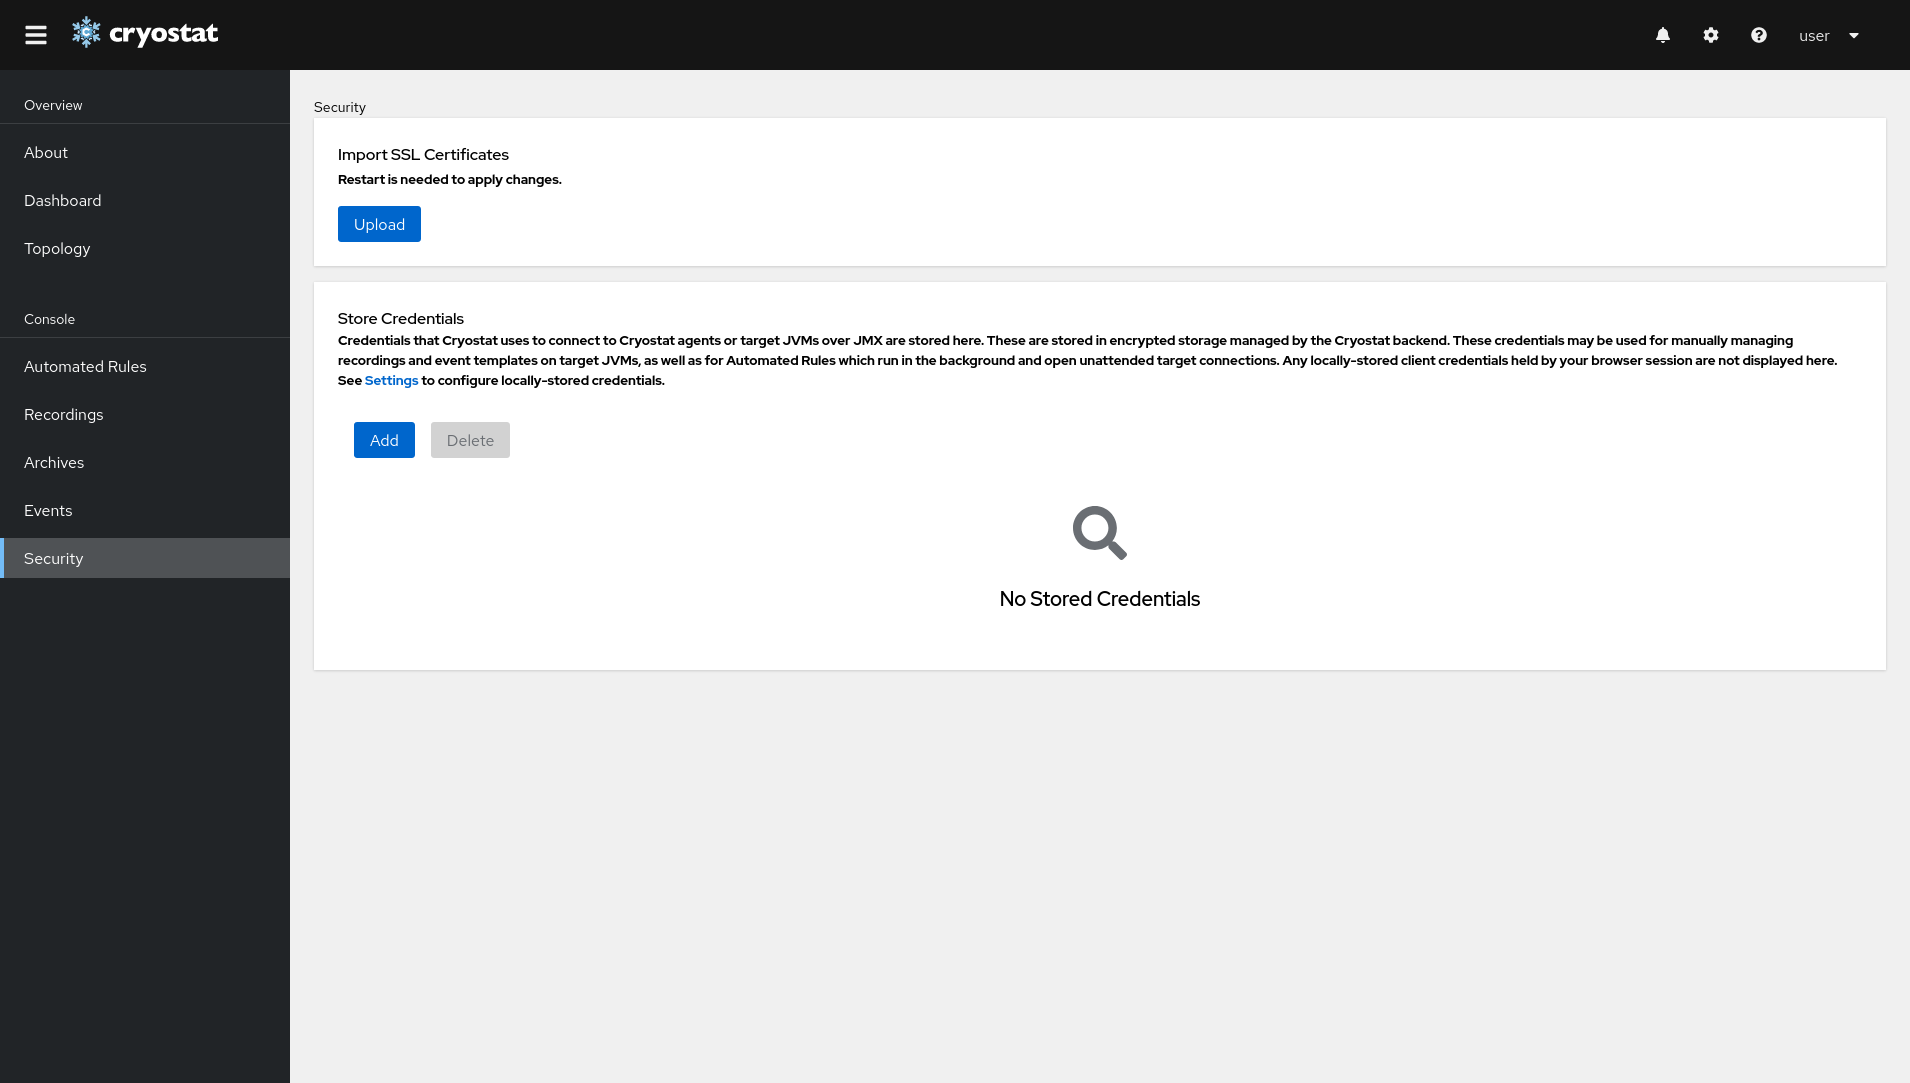
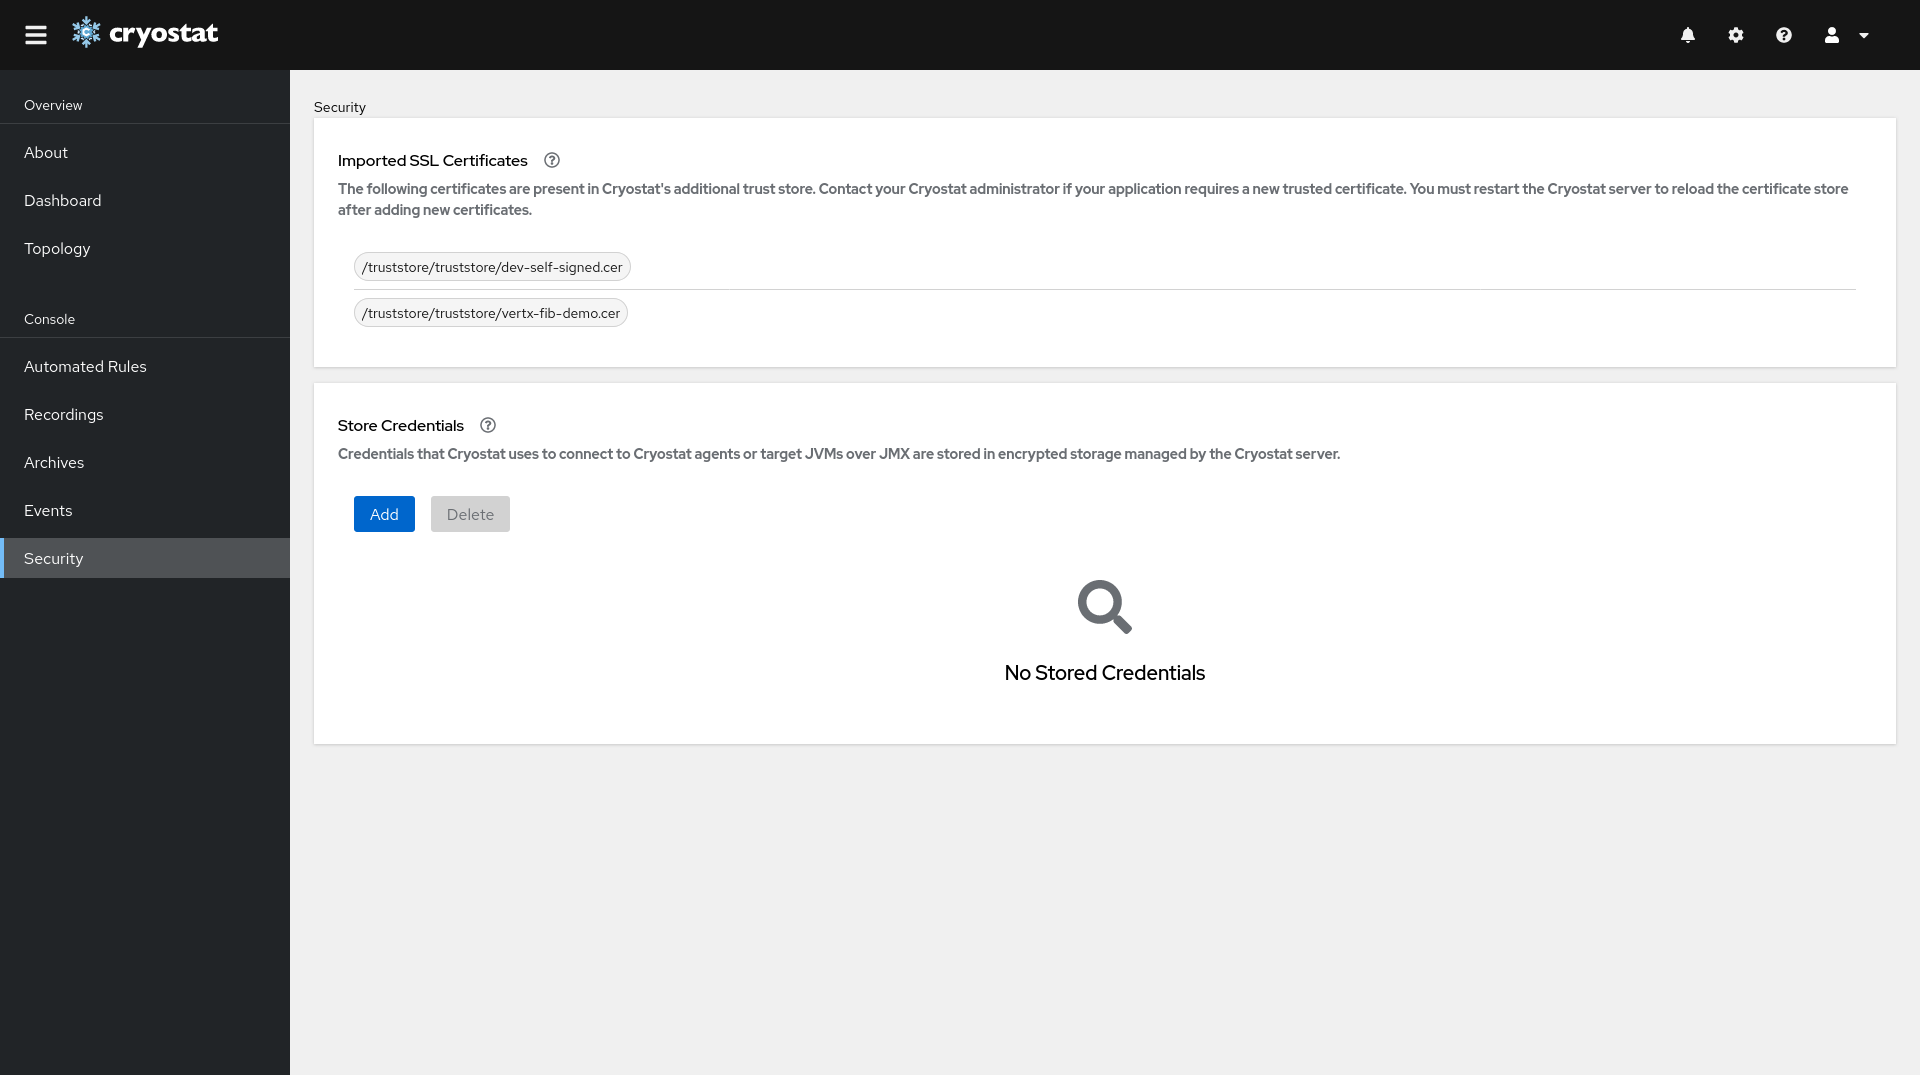
docs(guides): update guide for trusted TLS certs

diff --git a/guides/_subsections/add-a-trusted-certificate.md b/guides/_subsections/add-a-trusted-certificate.md
@@ -1,40 +1,35 @@
 ## [Add a Trusted Certificate](#add-a-trusted-certificate)
-If you have Java Management Extensions **(JMX)** over `SSL` enabled on your containerized **JVMs**, you must configure **Cryostat** to trust the `SSL` certificate presented by the containerized **JVM** when **Cryostat** attempts to open a **JMX** connection. If you do not complete this configuration, **Cryostat** cannot open a **JMX** connection for the purposes of performing **JFR** management tasks.
+If you have Java Management Extensions **(JMX)** over `SSL` enabled on your containerized **JVMs**, you must configure **Cryostat** to trust the `SSL/TLS` certificate presented by the containerized **JVM** when **Cryostat** attempts to open a **JMX** connection. If you do not complete this configuration, **Cryostat** cannot open a **JMX** connection for the purposes of performing **JFR** management tasks.
 
-Here's how to add a trusted `SSL` certificate with the **Cryostat Web** UI.
+<ol>
+    <li>
+        {% include howto_step.html
+          summary="Navigate to the <i>Security</i> Tab"
+          image-name="3.0.0/navigate-to-security-empty.png"
+          text="Click the <i>Security</i> tab. This should initially be in an empty state if you have not yet defined any additional trusted certificates."
+        %}
+    </li>
+</ol>
+
+In order to add a trusted certificate to Cryostat's custom truststore you must first determine the directory that Cryostat loads certificates from.
+This is controlled by the configuration property `ssl.truststore.dir` and defaults to `/truststore`. If you are deploying Cryostat manually in an
+environment like Podman or Docker Compose, you should create a volume containing the certificates and mount it to this location, or bind-mount a host
+directory to this location. If you are using the Cryostat Helm Chart then you should create Secrets containing each trusted certificate and mount
+each within this location. If you are using the Cryostat Operator, you should use the `.Spec.TrustedCertSecrets` `CR` property.
+
+Once you have loaded your additional certificates to the truststore you must restart the Cryostat container, since it can only load certificates
+into the JVM truststore at startup time. The container may be restarted automatically when you modify the configuration, depending on your deployment
+platform.
+
+After you have loaded the certificates and verified that the Cryostat container has restarted, you can verify that Cryostat correctly found the
+certificate(s) within the truststore directory.
 
 <ol>
     <li>
         {% include howto_step.html
           summary="Navigate to the <i>Security</i> Tab"
           image-name="3.0.0/navigate-to-security.png"
-          text="Click the <i>Security</i> tab."
+          text="Click the <i>Security</i> tab. The file paths of any additional trusted certificates you have added should appear in the list."
         %}
-    </li>
-    <li>
-        {% include howto_step.html
-          summary="Upload the Certificate"
-          image-name="3.0.0/add-a-trusted-certificate-upload.png"
-          text="
-              Click the <i>Upload</i> button on the <i>Import SSL Certificates</i> card. This action opens a file-upload dialog, where you can choose the certificate that you want to upload to <b>Cryostat</b>. You can repeat this process multiple times to add multiple trusted certificates.
-          "
-        %}
-    </li>
-    <li>
-        Restart <b>Cryostat</b> to apply the changes. If you do not restart your <b>Cryostat</b> instance, the added certificates are not reloaded. This causes connections to fail because the <b>Cryostat JMX</b> client cannot trust the certificates. Depending on your deployment platform and configuration, restarting <b>Cryostat</b> might require any of the following:
-        <ul>
-            <li>
-                On <b>OpenShift/Kubernetes</b> with <b>Cryostat Operator</b>:
-                <pre>oc delete cryostat/&lt;my-cryostat-cr-name&gt;<br>oc create -f &lt;my-cryostat-cr-name&gt;.yaml</pre>
-            </li>
-            <li>
-                On <b>OpenShift/Kubernetes</b> without <b>Cryostat Operator</b>:
-                <pre>oc rollout retry dc/&lt;my-cryostat-dc-name&gt;</pre>
-            </li>
-            <li>
-                On <b>Podman</b>:
-                <pre>podman restart &lt;my-cryostat-container-id&gt;</pre>
-            </li>
-        </ul>
     </li>
 </ol>
